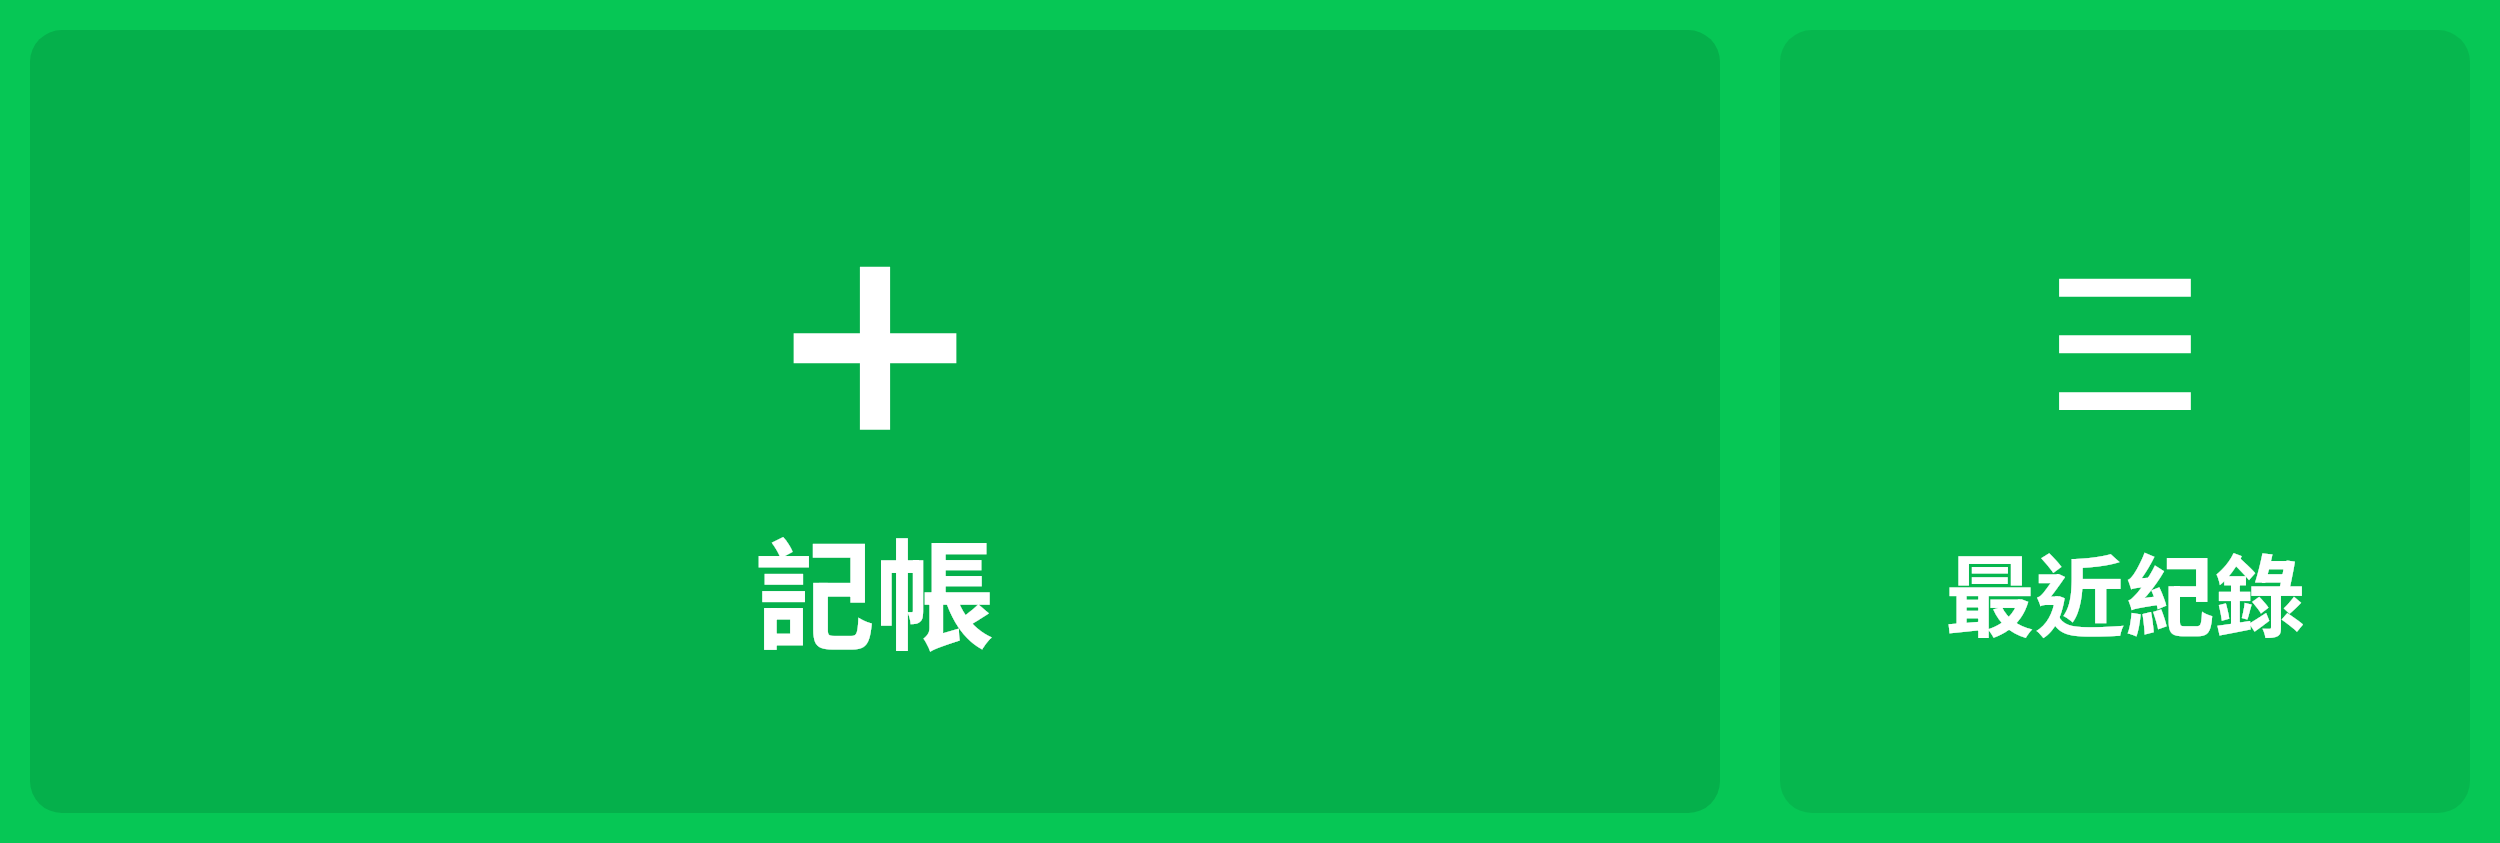
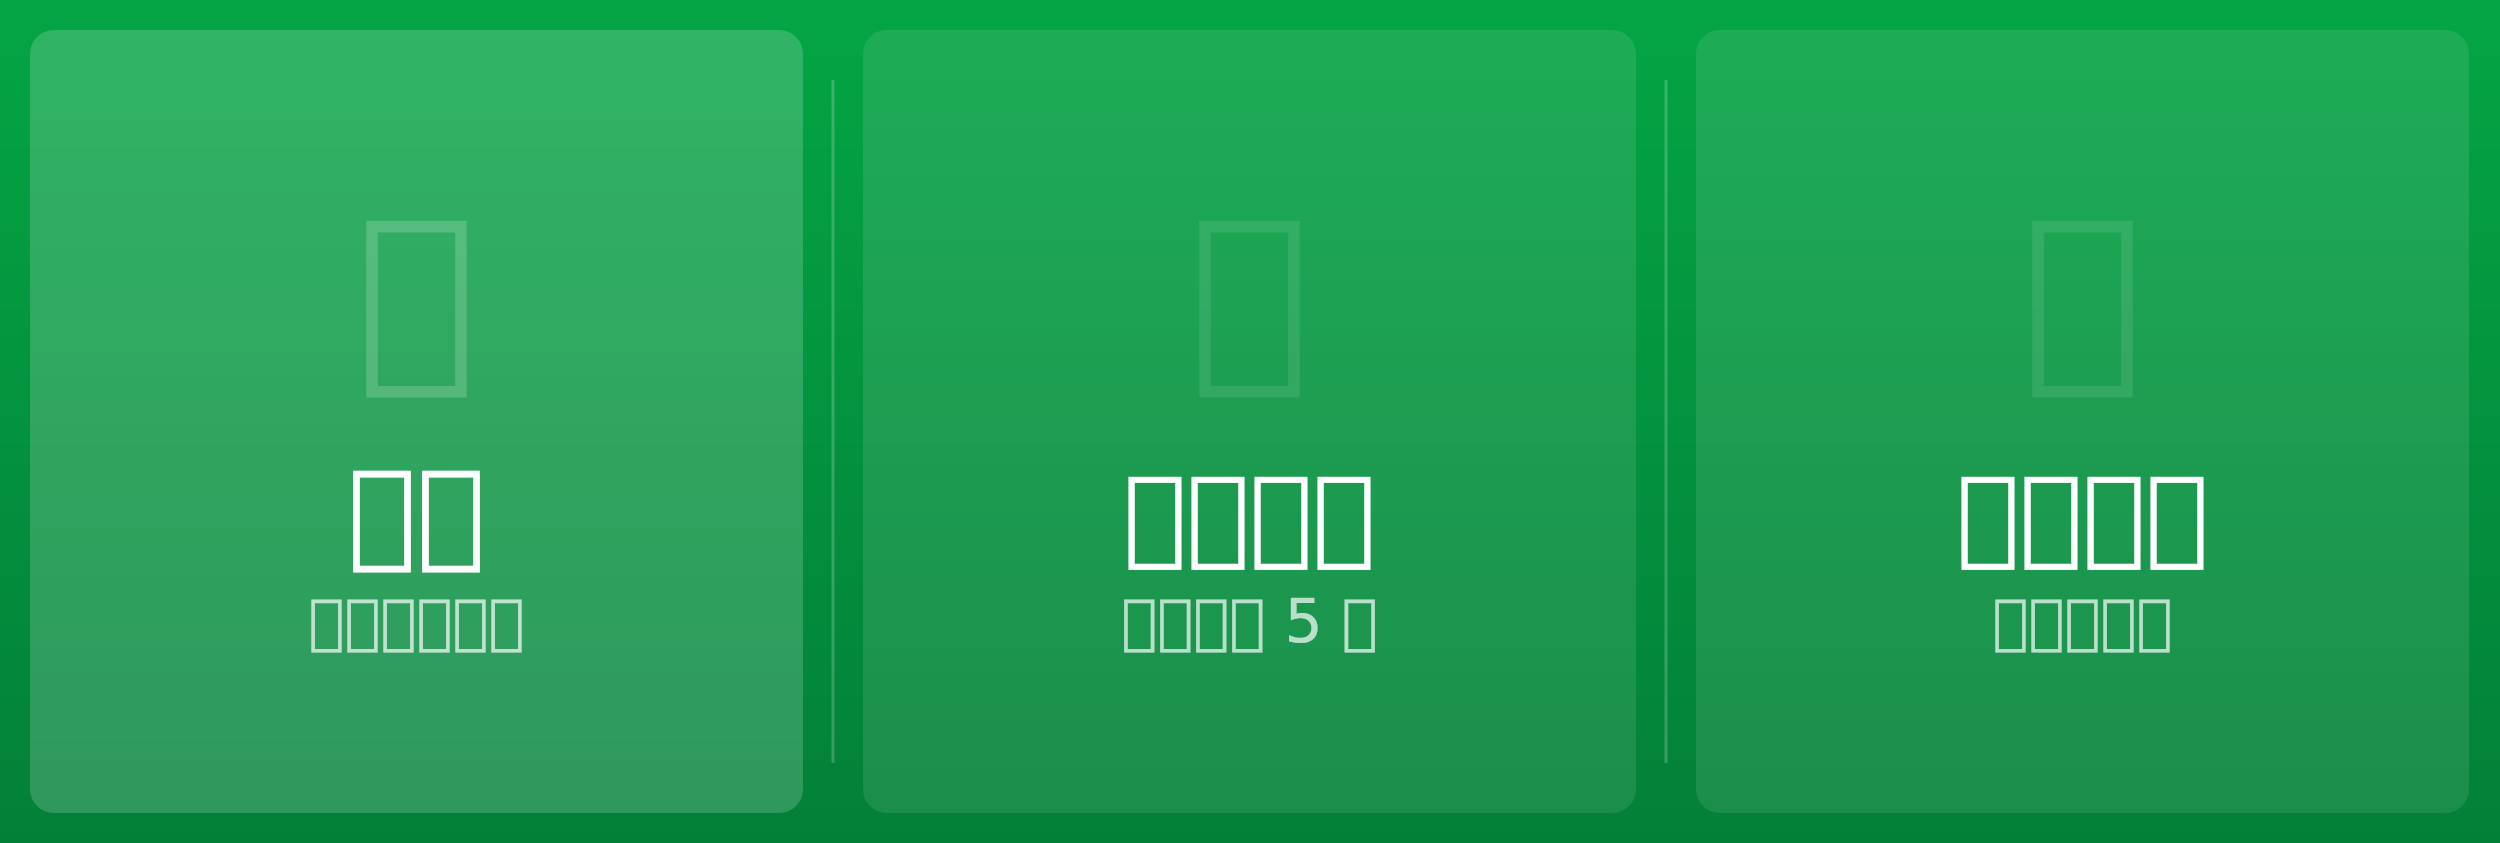
feat: 3-column rich menu with search + improved customer sheet parsing
- redesign LINE rich menu to three equal columns with new search entry and better visual affordances
- read customers from the dedicated sheet when available, with more header variants and safer fallbacks

Made-with: Cursor

diff --git a/api/webhook.ts b/api/webhook.ts
@@ -69,8 +69,19 @@ function buildSheets() {
   return google.sheets({ version: "v4", auth })
 }
 
-// 最近 9 個不重複客戶（rich menu 用）
+// 讀取客戶清單（從「客戶」sheet，若無則 fallback 讀歷史紀錄）
 async function getRecentCustomers(): Promise<string[]> {
+  try {
+    // 優先讀「客戶」sheet
+    const res = await buildSheets().spreadsheets.values.get({
+      spreadsheetId: SPREADSHEET_ID, range: `${SHEET_CUSTOMERS}!A:A`,
+    })
+    const customers = (res.data.values ?? [])
+      .map(r => String(r[0] ?? "").trim())
+      .filter(n => n && !/^(客戶|name|客戶名稱|客户)$/i.test(n))
+    if (customers.length > 0) return customers.slice(0, 9)
+  } catch {}
+  // fallback：讀歷史紀錄
   try {
     const res = await buildSheets().spreadsheets.values.get({
       spreadsheetId: SPREADSHEET_ID, range: `${SHEET_CATEGORIZED}!D:D`,
@@ -90,7 +101,7 @@ async function getAllCustomers(): Promise<string[]> {
     })
     return (res.data.values ?? [])
       .map(r => String(r[0] ?? "").trim())
-      .filter(n => n && !/^(客戶|name)$/i.test(n))
+      .filter(n => n && !/^(客戶|name|客戶名稱|客户)$/i.test(n))
   } catch { return [] }
 }
 
